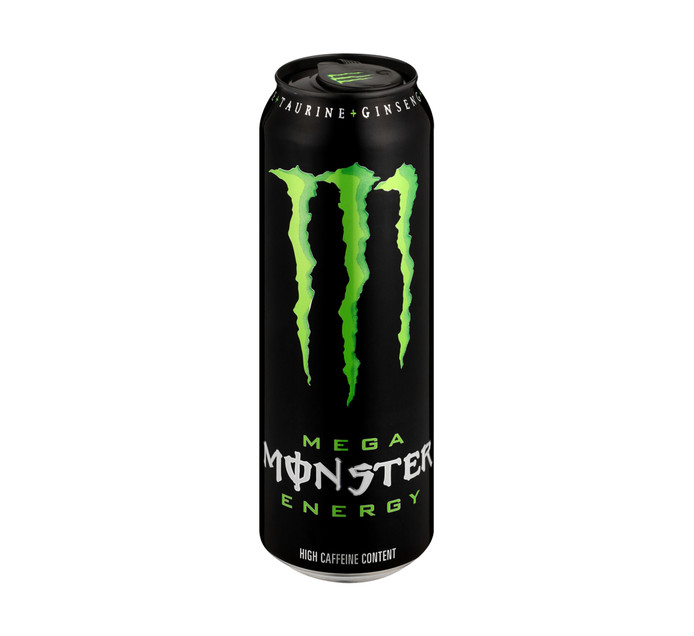
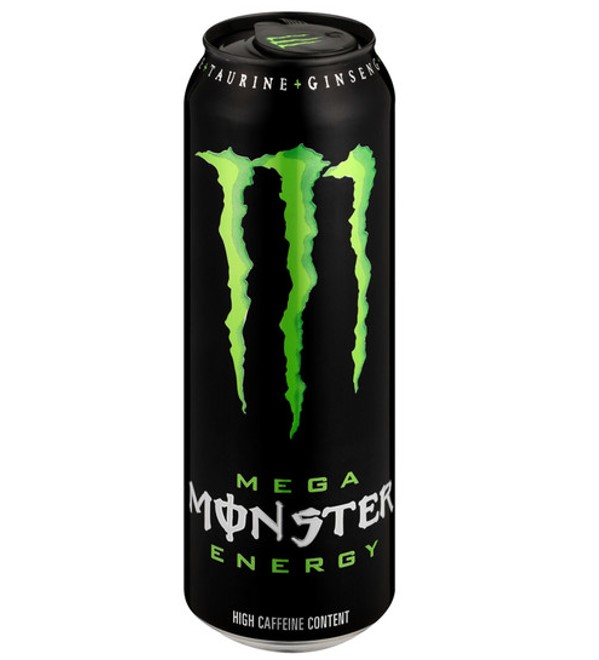
Ajuste tamaño productos y detalles

Changed region(s): [[0.3005, 0.0, 0.6611, 1.0]]

diff --git a/Index.html b/Index.html
@@ -57,7 +57,7 @@
 
   <h1>adsad</h1>
   <section class="home" id="Home">
-    <div class="home-text" style="padding-right: 90px;">
+    <div class="home-text" style="padding-right: 90px; padding-left: 5vw;">
       <h1>Unleash the <br>Beast</h1>
       <p>Abre un lata de Monstruo Energy, la segunda bebida más energética, ya que solo nosotra version gringa nos
         supera. Es la combinación ideal de ingredientesy contiene la proporción adecuada para hacer el trabajo
@@ -75,10 +75,7 @@
 
   <!--About-->
   <section class="about" id="About">
-    <div class="about-img">
-      <!-- <img src="imagenes/about.jpg" alt=""> -->
-    </div>
-    <div class="about-text">
+    <div class="about-text" style="padding-left: 25vw;">
       <h2>Nuestra Historia</h2>
       <p>Monstruo Energy fue lanzada y comercializada por Hansen Natural en el año 2002. Con tanto éxito empezó
         expandirse al continente Europeo impulsando y comercializándose por primera vez en España en el año 2010.
@@ -102,7 +99,7 @@
     </div>
     <div class="products-container">
       <div class="box">
-        <img src="imagenes/p1.jpg" alt="">
+        <img src="imagenes/p1.jpg" alt="" height="300">
         <h3>Mango Loco</h3>
         <div class="content">
           <span>$25</span>
@@ -110,7 +107,7 @@
         </div>
       </div>
       <div class="box">
-        <img src="imagenes/p2.jpg" alt="">
+        <img src="imagenes/p2.jpg" alt="" height="300">
         <h3>Monster Monarch</h3>
         <div class="content">
           <span>$3,000</span>
@@ -118,7 +115,7 @@
         </div>
       </div>
       <div class="box">
-        <img src="imagenes/p3.jpg" alt="">
+        <img src="imagenes/p3.jpg" alt="" height="300">
         <h3>Juice Monster Pacific Punch</h3>
         <div class="content">
           <span>$2,500</span>
@@ -126,7 +123,7 @@
         </div>
       </div>
       <div class="box">
-        <img src="imagenes/p4.jpg" alt="">
+        <img src="imagenes/p4.jpg" alt="" height="300">
         <h3>Monster LH44</h3>
         <div class="content">
           <span>$2,000</span>
@@ -134,7 +131,7 @@
         </div>
       </div>
       <div class="box">
-        <img src="imagenes/p5.jpg" alt="">
+        <img src="imagenes/p5.jpg" alt="" height="300">
         <h3>Monster Energy Original</h3>
         <div class="content">
           <span>$1,5000</span>
@@ -142,7 +139,7 @@
         </div>
       </div>
       <div class="box">
-        <img src="imagenes/p6.jpg" alt="">
+        <img src="imagenes/p6.jpg" alt="" height="300">
         <h3>monster reserve watermelon</h3>
         <div class="content">
           <span>$3,500</span>
@@ -155,13 +152,16 @@
       <h1>Contactanos</h1>
       <p>I'am available for freelance work. Connect with me via phone: 01646895741
         or email: admin@example.com</p>
+
       <from action="">
         <input type="" placeholder=" Nombre " required>
         <input type="email" name="email" id="" placeholder="E-mail" required>
         <input type="" placeholder="Direccion" required>
-        <textarea name="" id="" cols="30" rows="10" placeholder="Tu mensaje" required>
-          </textarea>
-        <input type="Entregar" name="" value="Entregar" class="btn">
+        <p></p>
+        <div style="padding-bottom: 10px;"><textarea name="" id="" cols="30" rows="10" placeholder="Tu mensaje" required>
+          </textarea></div>
+        <a href="#" class="btn" style="padding-top: 10px;">Entregar </a>
+        <p></p>
       </from>
     </div>
     <div class="contacto-img">

diff --git a/style.css b/style.css
@@ -243,9 +243,9 @@ header {
 .products-container .box .content span {
     padding: 0 1rem;
     color: var(--bg-color);
-    background: brown;
-    font-weight: 4px;
-    font-weight: 500;
+    background: #2E2E2E;
+    font-weight: 7px;
+    /* font-weight: 500; */
 }
 
 * {
